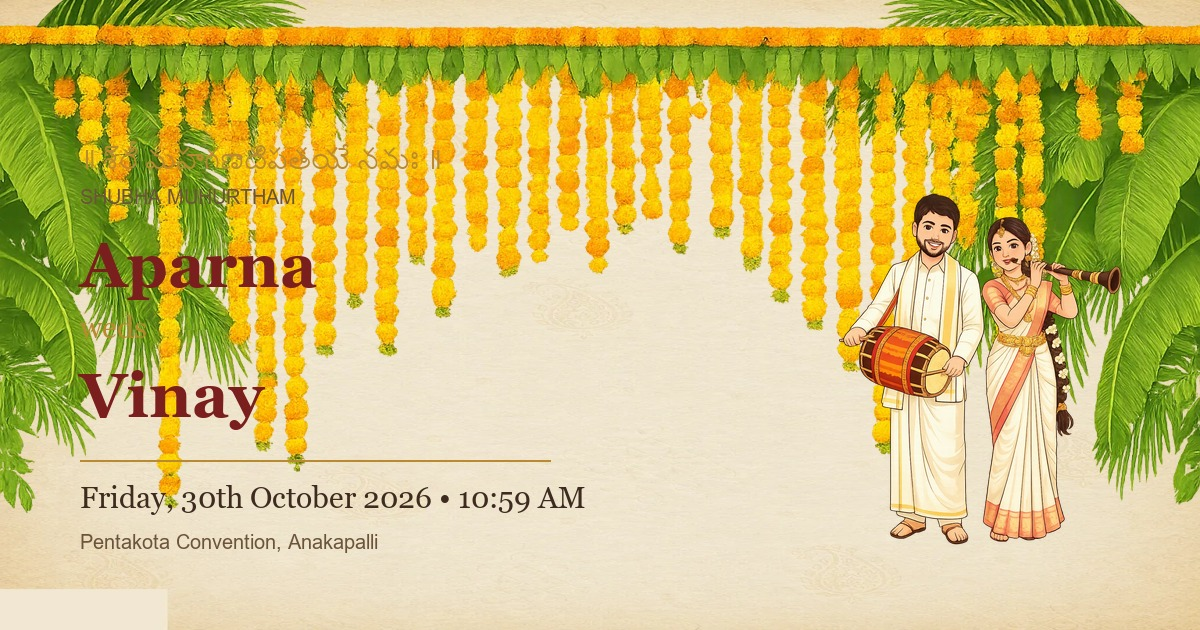
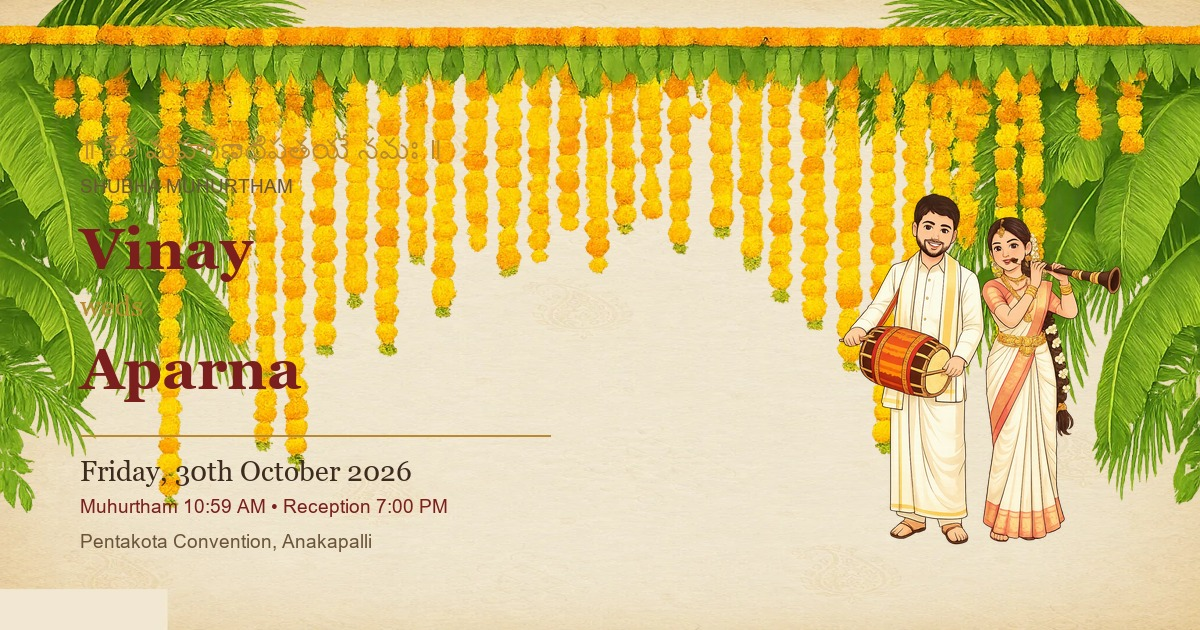
Add guest intro screen, update order to Vinay & Aparna, and add Reception & Dinner event

diff --git a/index.html b/index.html
@@ -3,26 +3,32 @@
   <head>
     <meta charset="UTF-8" />
     <meta name="viewport" content="width=device-width, initial-scale=1.0, viewport-fit=cover" />
-    <meta name="theme-color" content="#f7efdb" />
+    <meta name="theme-color" content="#29080e" />
     <meta
       name="description"
-      content="Aparna weds Vinay — Shubha Muhurtham. Join us on Friday, 30th October 2026 at Pentakota Convention, Anakapalli."
+      content="Vinay weds Aparna — Shubha Muhurtham. Join us on Friday, 30th October 2026 at Pentakota Convention, Anakapalli."
     />
-    <title>Aparna ❤ Vinay — Shubha Muhurtham</title>
-    <!-- ▼▼ PER-CUSTOMER: replace https://YOUR-SITE.netlify.app with the actual deployed URL ▼▼ -->
+    <title>Vinay ❤ Aparna — Shubha Muhurtham</title>
+    <!-- Google Fonts for Intro & Elegant Serif -->
+    <link rel="preconnect" href="https://fonts.googleapis.com" />
+    <link rel="preconnect" href="https://fonts.gstatic.com" crossorigin />
+    <link href="https://fonts.googleapis.com/css2?family=Playfair+Display:ital,wght@0,600;0,700;1,400&display=swap" rel="stylesheet" />
+
+    <!-- Open Graph / Social Sharing -->
     <meta property="og:type" content="website" />
-    <meta property="og:url" content="https://vinay-aparna.netlify.app/" />
-    <meta property="og:title" content="Aparna ❤ Vinay — Shubha Muhurtham" />
-    <meta property="og:description" content="Together with their families, Aparna & Vinay invite you to the Muhurtham — Friday, 30th October 2026, Pentakota Convention, Anakapalli." />
+    <meta property="og:url" content="https://vinay-weds-aparna.inviteby.top/" />
+    <meta property="og:title" content="Vinay ❤ Aparna — Shubha Muhurtham" />
+    <meta property="og:description" content="Together with their families, Vinay & Aparna invite you to the Muhurtham and Reception — Friday, 30th October 2026, Pentakota Convention, Anakapalli." />
     <meta property="og:image" content="./assets/og-image.jpg" />
     <meta property="og:image:width" content="1200" />
     <meta property="og:image:height" content="630" />
     <meta name="twitter:card" content="summary_large_image" />
-    <meta name="twitter:title" content="Aparna ❤ Vinay — Shubha Muhurtham" />
-    <meta name="twitter:description" content="Join us for the Muhurtham — Friday, 30th October 2026, Pentakota Convention, Anakapalli." />
+    <meta name="twitter:title" content="Vinay ❤ Aparna — Shubha Muhurtham" />
+    <meta name="twitter:description" content="Join us for the Muhurtham and Reception — Friday, 30th October 2026, Pentakota Convention, Anakapalli." />
     <meta name="twitter:image" content="./assets/og-image.jpg" />
-    <!-- ▲▲ PER-CUSTOMER ▲▲ -->
+
     <style>
+      /* Floating Music Toggle Button */
       .music-toggle-btn {
         position: fixed;
         top: 18px;
@@ -80,16 +86,154 @@
         from { transform: rotate(0deg); }
         to { transform: rotate(360deg); }
       }
+
+      /* Entrance Guest Intro Overlay */
+      body.intro-locked {
+        overflow: hidden !important;
+        height: 100vh !important;
+      }
+      .wedding-intro-overlay {
+        position: fixed;
+        inset: 0;
+        z-index: 999999;
+        display: flex;
+        align-items: center;
+        justify-content: center;
+        padding: 24px;
+        background:
+          radial-gradient(ellipse 85% 65% at 50% 45%, #4a121c 0%, #29080e 55%, #130206 100%),
+          repeating-linear-gradient(
+            90deg,
+            rgba(255, 255, 255, 0.02) 0px,
+            rgba(255, 255, 255, 0.02) 40px,
+            rgba(0, 0, 0, 0.2) 40px,
+            rgba(0, 0, 0, 0.2) 80px
+          );
+        box-shadow: inset 0 0 140px rgba(0, 0, 0, 0.85);
+        overflow-y: auto;
+        transition: opacity 0.8s cubic-bezier(0.22, 1, 0.36, 1), transform 0.8s cubic-bezier(0.22, 1, 0.36, 1);
+      }
+      .intro-card {
+        position: relative;
+        width: 100%;
+        max-width: 410px;
+        background: rgba(38, 12, 16, 0.94);
+        backdrop-filter: blur(24px);
+        -webkit-backdrop-filter: blur(24px);
+        border: 1px solid rgba(212, 175, 55, 0.32);
+        border-radius: 18px;
+        box-shadow: 0 30px 80px rgba(0, 0, 0, 0.75), inset 0 1px 0 rgba(255, 255, 255, 0.12);
+        padding: 44px 32px 36px;
+        text-align: center;
+        box-sizing: border-box;
+        animation: introCardFadeIn 0.7s cubic-bezier(0.22, 1, 0.36, 1) both;
+      }
+      @keyframes introCardFadeIn {
+        from {
+          opacity: 0;
+          transform: translateY(22px) scale(0.96);
+        }
+        to {
+          opacity: 1;
+          transform: translateY(0) scale(1);
+        }
+      }
+      .intro-eyebrow {
+        font-family: -apple-system, BlinkMacSystemFont, "Segoe UI", Roboto, sans-serif;
+        font-size: 11px;
+        font-weight: 700;
+        letter-spacing: 0.26em;
+        color: #eed5b3;
+        text-transform: uppercase;
+        margin: 0 0 18px;
+      }
+      .intro-title {
+        font-family: 'Playfair Display', Georgia, serif;
+        font-size: 38px;
+        font-weight: 700;
+        line-height: 1.18;
+        color: #ffffff;
+        margin: 0 0 16px;
+        letter-spacing: -0.01em;
+        text-shadow: 0 2px 10px rgba(0, 0, 0, 0.5);
+      }
+      .intro-desc {
+        font-family: -apple-system, BlinkMacSystemFont, "Segoe UI", Roboto, sans-serif;
+        font-size: 14.5px;
+        line-height: 1.45;
+        color: #f5ebe1;
+        opacity: 0.92;
+        margin: 0 0 26px;
+        font-weight: 400;
+      }
+      .intro-form {
+        display: flex;
+        flex-direction: column;
+        gap: 14px;
+        width: 100%;
+      }
+      .intro-input {
+        width: 100%;
+        height: 50px;
+        border-radius: 9999px;
+        background: rgba(255, 255, 255, 0.08);
+        border: 1px solid rgba(255, 255, 255, 0.22);
+        color: #ffffff;
+        font-size: 15px;
+        padding: 0 22px;
+        box-sizing: border-box;
+        outline: none;
+        transition: all 0.25s ease;
+        font-family: inherit;
+        text-align: left;
+      }
+      .intro-input::placeholder {
+        color: rgba(255, 255, 255, 0.45);
+      }
+      .intro-input:focus {
+        border-color: #f7e2bc;
+        background: rgba(255, 255, 255, 0.14);
+        box-shadow: 0 0 0 3px rgba(247, 226, 188, 0.2);
+      }
+      .intro-submit-btn {
+        width: 100%;
+        height: 50px;
+        border-radius: 9999px;
+        background: linear-gradient(180deg, #fce8c8 0%, #ebd3a5 100%);
+        color: #2b1207;
+        font-size: 15.5px;
+        font-weight: 600;
+        letter-spacing: 0.02em;
+        border: none;
+        cursor: pointer;
+        box-shadow: 0 6px 20px rgba(0, 0, 0, 0.35);
+        transition: transform 0.2s cubic-bezier(0.22, 1, 0.36, 1), box-shadow 0.2s, background 0.2s;
+        font-family: inherit;
+        display: flex;
+        align-items: center;
+        justify-content: center;
+      }
+      .intro-submit-btn:hover {
+        transform: translateY(-1.5px);
+        box-shadow: 0 8px 24px rgba(0, 0, 0, 0.45);
+        background: linear-gradient(180deg, #fff2db 0%, #f0dbae 100%);
+      }
+      .intro-submit-btn:active {
+        transform: translateY(1px);
+        box-shadow: 0 4px 12px rgba(0, 0, 0, 0.3);
+      }
     </style>
     <script src="./editable/wedding-data.js"></script>
     <script type="module" crossorigin src="assets/index-BcS--ptf.js"></script>
     <link rel="stylesheet" crossorigin href="assets/index-yVHCWpVH.css">
   </head>
-  <body>
+  <body class="intro-locked">
+    <!-- Background Audio -->
     <audio id="wedding-audio" loop preload="auto" playsinline src="editable/assets/bgm.mp3">
       <source src="editable/assets/bgm.mp3" type="audio/mpeg" />
     </audio>
 
+    <!-- Floating Audio Toggle Button -->
     <button id="music-toggle" class="music-toggle-btn is-playing" aria-label="Toggle background music" title="Toggle background music">
       <span class="music-icon-wrap">
         <svg width="20" height="20" viewBox="0 0 24 24" fill="none" stroke="currentColor" stroke-width="2" stroke-linecap="round" stroke-linejoin="round">
@@ -101,19 +245,45 @@
       </span>
     </button>
 
+    <!-- Entrance / Guest Intro Modal Overlay -->
+    <div id="wedding-guest-intro" class="wedding-intro-overlay">
+      <div class="intro-card">
+        <p class="intro-eyebrow">YOU ARE WARMLY INVITED</p>
+        <h1 class="intro-title">Vinay &amp; Aparna</h1>
+        <p class="intro-desc">Before the celebration begins, tell us who has arrived.</p>
+        <form id="intro-form" class="intro-form">
+          <input
+            type="text"
+            id="guest-name-input"
+            class="intro-input"
+            placeholder="Enter your name"
+            required
+            autocomplete="name"
+          />
+          <button type="submit" id="intro-submit-btn" class="intro-submit-btn">
+            Open Invitation
+          </button>
+        </form>
+      </div>
+    </div>
+
+    <!-- Main React App Container -->
     <div id="root"></div>
 
     <script>
       (function() {
         var audio = document.getElementById('wedding-audio');
         var btn = document.getElementById('music-toggle');
-        if (!audio || !btn) return;
+        var introOverlay = document.getElementById('wedding-guest-intro');
+        var introForm = document.getElementById('intro-form');
+        var guestInput = document.getElementById('guest-name-input');
 
         var userInteracted = false;
         var isMuted = false;
 
         function updateBtn() {
-          if (!audio.paused) {
+          if (!btn) return;
+          if (audio && !audio.paused) {
             btn.classList.add('is-playing');
             btn.classList.remove('is-muted');
           } else {
@@ -123,7 +293,7 @@
         }
 
         function tryPlay() {
-          if (isMuted) return;
+          if (isMuted || !audio) return;
           var p = audio.play();
           if (p !== undefined) {
             p.then(function() {
@@ -134,37 +304,61 @@
           }
         }
 
-        function unlockAudio() {
-          if (userInteracted || isMuted) return;
-          userInteracted = true;
-          tryPlay();
-          ['click', 'touchstart', 'pointerdown', 'scroll', 'keydown'].forEach(function(evt) {
-            window.removeEventListener(evt, unlockAudio, { capture: true });
+        // Handle Intro Form Submission
+        if (introForm) {
+          introForm.addEventListener('submit', function(e) {
+            e.preventDefault();
+            var guestName = (guestInput ? guestInput.value : '').trim();
+            if (!guestName) {
+              if (guestInput) guestInput.focus();
+              return;
+            }
+
+            try {
+              sessionStorage.setItem('guest_name', guestName);
+            } catch(err) {}
+
+            userInteracted = true;
+            isMuted = false;
+            tryPlay();
+
+            // Smooth exit animation
+            if (introOverlay) {
+              introOverlay.style.opacity = '0';
+              introOverlay.style.transform = 'scale(1.05)';
+              introOverlay.style.pointerEvents = 'none';
+            }
+
+            document.body.classList.remove('intro-locked');
+
+            setTimeout(function() {
+              if (introOverlay && introOverlay.parentNode) {
+                introOverlay.parentNode.removeChild(introOverlay);
+              }
+            }, 820);
           });
         }
 
-        ['click', 'touchstart', 'pointerdown', 'scroll', 'keydown'].forEach(function(evt) {
-          window.addEventListener(evt, unlockAudio, { capture: true, once: true, passive: true });
-        });
+        // Floating music button toggle
+        if (btn) {
+          btn.addEventListener('click', function(e) {
+            e.stopPropagation();
+            userInteracted = true;
+            if (audio.paused) {
+              isMuted = false;
+              tryPlay();
+            } else {
+              isMuted = true;
+              audio.pause();
+              updateBtn();
+            }
+          });
+        }
 
-        btn.addEventListener('click', function(e) {
-          e.stopPropagation();
-          userInteracted = true;
-          if (audio.paused) {
-            isMuted = false;
-            tryPlay();
-          } else {
-            isMuted = true;
-            audio.pause();
-            updateBtn();
-          }
-        });
-
-        audio.addEventListener('play', updateBtn);
-        audio.addEventListener('pause', updateBtn);
-
-        document.addEventListener('DOMContentLoaded', tryPlay);
-        window.addEventListener('load', tryPlay);
+        if (audio) {
+          audio.addEventListener('play', updateBtn);
+          audio.addEventListener('pause', updateBtn);
+        }
       })();
     </script>
   </body>

diff --git a/editable/wedding-data.js b/editable/wedding-data.js
@@ -5,8 +5,10 @@
 
 window.WEDDING_DATA = {
   couple: {
-    bride: "Aparna",
-    groom: "Vinay",
+    bride: "Vinay",
+    groom: "Aparna",
+    brideFirst: "Vinay",
+    groomFirst: "Aparna",
     hashtag: "#VinayWedsAparna",
     brideFamily: "The Apparao Family",
     groomFamily: "The Seetharam Family",
@@ -20,20 +22,31 @@ window.WEDDING_DATA = {
     muhurthamTimeLabel: "Muhurtham at 10:59 AM",
     muhurthamISO: "2026-10-30T10:59:00+05:30",
     inviteLine1: "With the divine blessings of Lord Ganesha and our elders,",
-    inviteLine2: "we joyfully invite you and our family to the wedding muhurtham of our beloved children. Your presence is the greatest gift — please come, bless the couple, and celebrate with us.",
+    inviteLine2: "we joyfully invite you and our family to the wedding celebrations of our beloved children. Your presence is the greatest gift — please come, bless the couple, and celebrate with us.",
   },
 
   events: [
     {
       id: "muhurtham",
       title: "Muhurtham",
-      telugu: "ముహూర్తం",
+      telugu: "శుభ ముహూర్తం",
       dateLabel: "Friday, 30th October 2026",
       timeLabel: "10:59 AM sharp",
       startISO: "2026-10-30T10:59:00+05:30",
       endISO: "2026-10-30T13:00:00+05:30",
       note: "The sacred ceremony — please be seated by 10:30 AM.",
       icon: "fire",
+    },
+    {
+      id: "reception",
+      title: "Reception & Dinner",
+      telugu: "రిసెప్షన్ మరియు విందు",
+      dateLabel: "Friday, 30th October 2026",
+      timeLabel: "7:00 PM onwards",
+      startISO: "2026-10-30T19:00:00+05:30",
+      endISO: "2026-10-30T22:30:00+05:30",
+      note: "Celebrations, blessings, and dinner at the same function hall.",
+      icon: "sparkles",
     },
   ],
 
